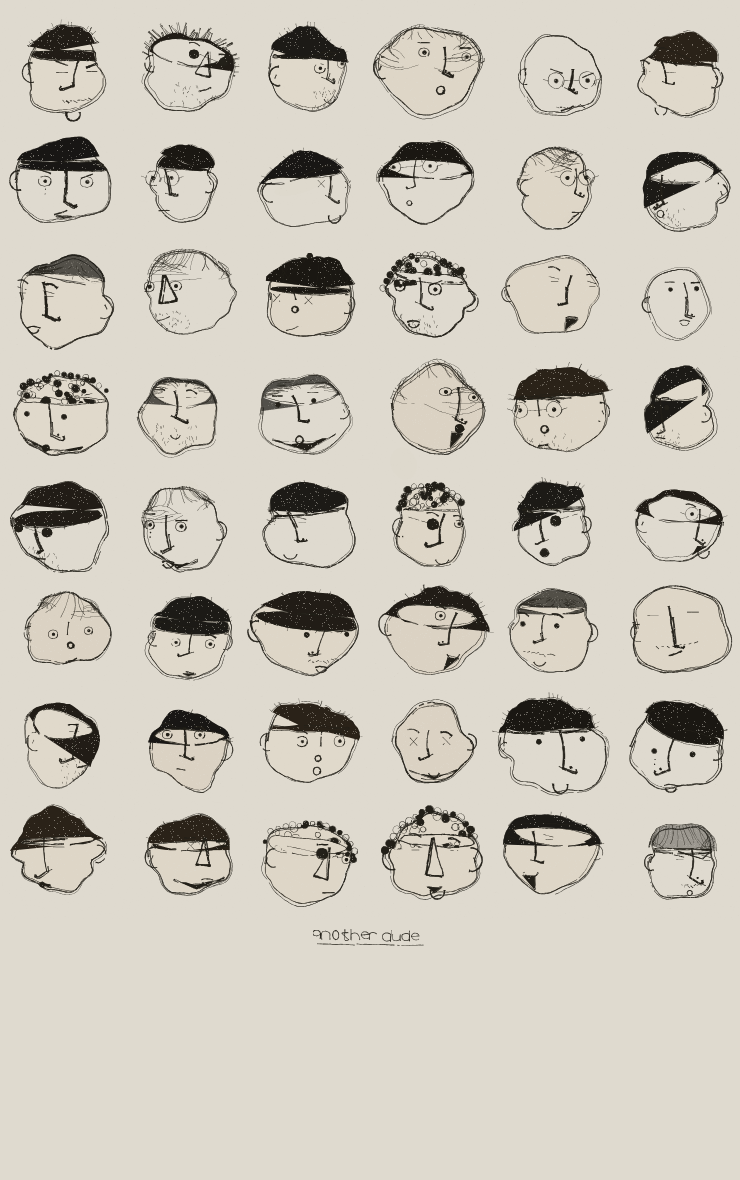
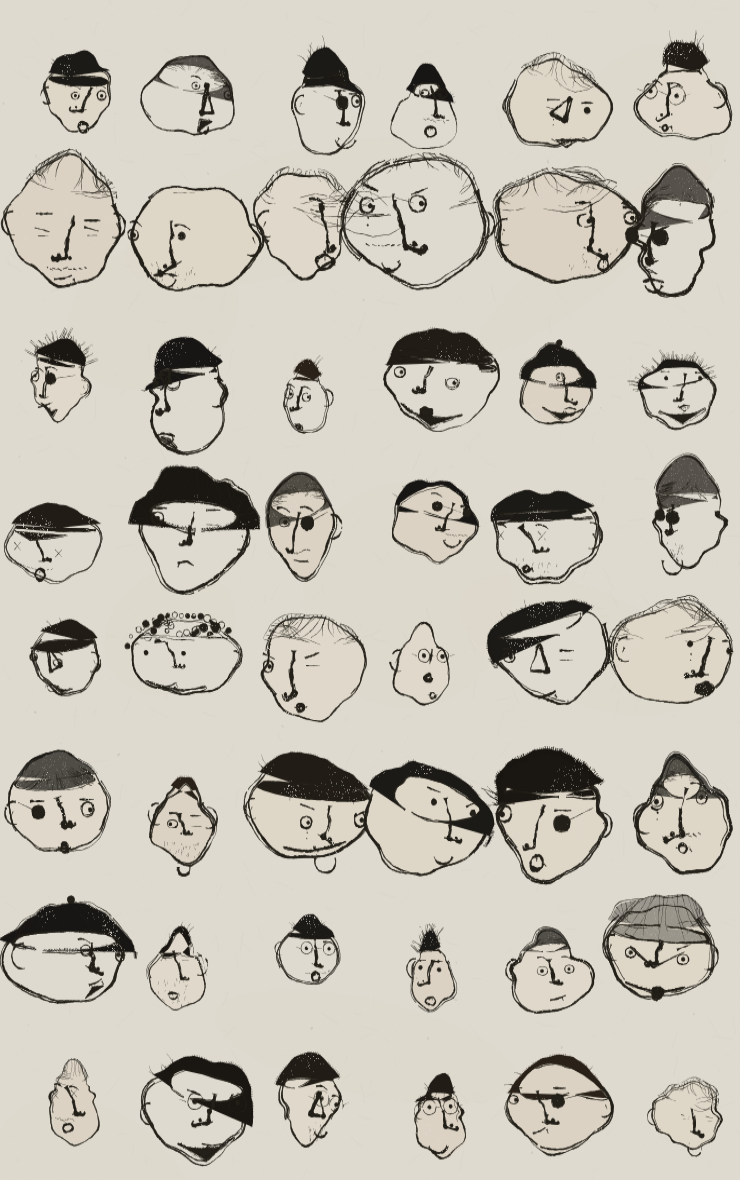
Gauntlet: pressure inside the stroke, heads as two strokes, handwriting
Critics picked ours out three rounds running on the same tells. This
answers them.

- Pressure was scaled to the page, not the stroke: the noise wavelength
  was longer than most lines, so every line came out one width from
  entry to exit. It now runs 1-5 swells per stroke regardless of length,
  so a contour visibly thins through a straight and bears down on a turn.
- A head is no longer one closed loop. A cranium is drawn over and a jaw
  under, they overshoot and cross where they meet, the jaw carries more
  weight, and one cheek gets restated. A single perturbed circle is what
  made faces read as stickers.
- Skulls pick from six archetypes so silhouette differs, plus an optional
  brow ridge in the outline.
- Mouths are structural — open jaws with teeth, overhanging lips,
  puckers — and every face gets one.
- Handwriting: letterforms are sheared, unevenly squashed and
  control-point jittered per glyph, so repeated letters never superimpose;
  the baseline drifts and does not come back; strokes overshoot their
  joins; case is mixed; word spacing opens up.
- Cloth has folds, hem shadow and pocket marks instead of a paint-bucket
  fill; arms taper; hands exist.
- Paper has fibre and blooms instead of a flat field with speckle on it.
- Plate mode drifts and crowds like a filled page rather than a grid of
  centred cells.

Claude-Session: https://claude.ai/code/session_01RJWY9ufwnD6fjwW6ve4one

diff --git a/dude.js b/dude.js
@@ -152,10 +152,15 @@
       // A real nib runs thin through a straight, presses hard through a turn
       // and lifts off at the exit. One width from start to stop is the single
       // loudest tell that a contour was plotted rather than drawn.
-      const slow = fbm2(u * 0.0085, sd * 0.011, sd + 5) - 0.5;
-      const slow2 = fbm2(u * 0.031, sd * 0.017, sd + 211) - 0.5;
+      // Scale the pressure wave to the STROKE, not to the page. Noise with a
+      // wavelength longer than the line gives every line one constant width,
+      // which is the thing every critic spots first.
+      const t01 = i / (n - 1);
+      const cyc = 1.3 + ((sd >>> 3) % 9) * 0.42;
+      const slow = fbm2(t01 * cyc * 2 + 7, sd * 0.011, sd + 5) - 0.5;
+      const slow2 = fbm2(t01 * cyc * 5.5 + 3, sd * 0.017, sd + 211) - 0.5;
       const fast = fbm2(u * 0.185, sd * 0.005, sd + 61) - 0.5;
-      let press = 1 + slow * 1.35 + slow2 * 0.6 + fast * 0.28;
+      let press = 1 + slow * 1.7 + slow2 * 0.62 + fast * 0.26;
       if (i < 3) press *= 1.3 - i * 0.09; // the nib sits down where it lands
       const tail = n - 1 - i;
       if (tail < 6) press *= 0.52 + (tail / 6) * 0.48; // and lifts on the way out
@@ -171,7 +176,7 @@
       while (ang < -Math.PI) ang += Math.PI * 2;
       const turn = Math.abs(ang);
       if (turn > 0.35) press *= 1 + Math.min(0.7, (turn - 0.35) * 1.1); // ink pools in the corner
-      W[i] = Math.max(0.32, w * Math.min(2.4, Math.max(0.24, press)));
+      W[i] = Math.max(0.3, w * Math.min(2.6, Math.max(0.2, press)));
       // the nib lifts rarely and briefly; a dashed line is a broken pen,
       // not a dry one. Thin strokes skip more than fat ones.
       const dry = fbm2(u * 0.19 + 11, sd * 0.02, sd + 137);
@@ -438,25 +443,43 @@
     c.restore();
     c.fillStyle = PAPER;
     c.fillRect(0, 0, w, h);
-    for (let i = 0; i < 7; i++) {
-      c.fillStyle = rng.chance(0.5) ? "rgba(92,70,42,0.008)" : "rgba(255,250,238,0.012)";
+    // Cartridge paper is not a flat tone. Big soft blooms, then fibre lying
+    // in the sheet, then tooth. A flat field with speckle on it is the
+    // easiest thing in the whole drawing to spot as printed.
+    for (let i = 0; i < 16; i++) {
+      c.fillStyle = rng.chance(0.5) ? "rgba(92,78,52,0.006)" : "rgba(255,252,244,0.01)";
       c.beginPath();
-      c.ellipse(rng.f(0, w), rng.f(0, h), rng.f(8, 28), rng.f(5, 16), rng.f(0, 6), 0, Math.PI * 2);
+      c.ellipse(rng.f(-40, w + 40), rng.f(-40, h + 40), rng.f(40, 190), rng.f(28, 130), rng.f(0, 6), 0, Math.PI * 2);
       c.fill();
     }
-    for (let i = 0; i < 3400; i++) {
-      c.fillStyle = rng.chance(0.62) ? "rgba(48,36,22,0.035)" : "rgba(255,255,255,0.03)";
-      c.fillRect(rng.f(0, w), rng.f(0, h), rng.f(0.3, 1.1), rng.f(0.25, 0.7));
-    }
-    for (let i = 0; i < 90; i++) {
-      c.strokeStyle = "rgba(70,52,32,0.022)";
-      c.lineWidth = rng.f(0.25, 0.5);
-      c.beginPath();
+    for (let i = 0; i < 900; i++) {
+      const a = rng.f(0, Math.PI * 2);
+      const len = rng.f(3, 22);
+      const dark = rng.chance(0.55);
+      c.strokeStyle = dark ? "rgba(74,60,40,0.03)" : "rgba(255,253,246,0.05)";
+      c.lineWidth = rng.f(0.4, 1.0);
       const x = rng.f(0, w);
       const y = rng.f(0, h);
+      c.beginPath();
       c.moveTo(x, y);
-      c.lineTo(x + rng.f(-14, 14), y + rng.f(-1.6, 1.6));
+      c.quadraticCurveTo(
+        x + Math.cos(a) * len * 0.5 + rng.f(-2, 2),
+        y + Math.sin(a) * len * 0.5 + rng.f(-2, 2),
+        x + Math.cos(a) * len,
+        y + Math.sin(a) * len
+      );
       c.stroke();
+    }
+    for (let i = 0; i < 4200; i++) {
+      c.fillStyle = rng.chance(0.6) ? "rgba(48,36,22,0.032)" : "rgba(255,255,255,0.034)";
+      c.fillRect(rng.f(0, w), rng.f(0, h), rng.f(0.3, 1.2), rng.f(0.25, 0.8));
+    }
+    for (let i = 0; i < 40; i++) {
+      // the odd fleck of pulp
+      c.fillStyle = "rgba(58,44,28,0.1)";
+      c.beginPath();
+      c.ellipse(rng.f(0, w), rng.f(0, h), rng.f(0.5, 1.7), rng.f(0.4, 1.1), rng.f(0, 6), 0, Math.PI * 2);
+      c.fill();
     }
   }
 
@@ -745,7 +768,27 @@
     const hull = skull.silhouette(rng);
     inkFill(c, rng, hull, PAPER, 1, 0.6);
     if (skinWash) inkFill(c, rng, hull, skinWash, 0.16, 0.6);
-    inkPoly(c, rng, hull, { closed: true, doubled: true, w: skull.s * 0.03 * (skull.pen || 1), dry: 0.4 });
+    // A head is not one closed loop. It is a cranium drawn over, then a jaw
+    // drawn under, and they overshoot and cross where they meet — which is
+    // also where the pen bears down. One continuous perturbed circle is what
+    // makes a face read as a sticker instead of a skull.
+    const n = hull.length;
+    const arc = (a, b) => {
+      const out = [];
+      for (let i = a; i <= b; i++) out.push(hull[((i % n) + n) % n]);
+      return out;
+    };
+    const ov = Math.round(n * rng.f(0.05, 0.11));
+    const w0 = skull.s * 0.03 * (skull.pen || 1);
+    const cranium = arc(-ov, Math.round(n * 0.5) + ov);
+    const jaw = arc(Math.round(n * 0.5) - ov, n + ov);
+    inkPoly(c, rng, cranium, { w: w0 * rng.f(0.85, 1.02), dry: 0.45, doubled: rng.chance(0.55) });
+    inkPoly(c, rng, jaw, { w: w0 * rng.f(1.1, 1.4), dry: 0.35, doubled: rng.chance(0.7) });
+    if (rng.chance(0.35)) {
+      // a cheek restated on one side only
+      const a0 = Math.round(n * rng.f(0.02, 0.12));
+      inkPoly(c, rng, arc(a0, a0 + Math.round(n * rng.f(0.12, 0.26))), { w: w0 * 0.75, dry: 1.2 });
+    }
 
     const earL = pin(skull, { x: -0.92, y: 0.02, z: 0.05 });
     const earR = pin(skull, { x: 0.92, y: 0.02, z: 0.05 });
@@ -1582,7 +1625,8 @@
     const hipY = neckY + s * rng.f(1.95, 2.3);
     const kneeY = hipY + s * rng.f(0.85, 1.05);
     const footY = hipY + s * rng.f(1.7, 2.05);
-    const armR = (t) => s * (0.19 - 0.075 * t);
+    const aw0 = rng.f(0.17, 0.22);
+    const armR = (t) => s * (aw0 - (aw0 - rng.f(0.075, 0.1)) * Math.pow(t, 0.8));
     const legR = (t) => s * (rng.f(0.18, 0.23) - 0.065 * t);
     const pose = clothes.pose;
     const shrug = rng.f(-0.06, 0.1);
@@ -1682,8 +1726,28 @@
 
     // Core figure: neck, shoulders, sides, legs, feet. Arms go on top as
     // their own shapes, the way an arm crossing a body is actually drawn.
+    // Subdivide the straight runs so the pen has somewhere to wander. A
+    // shoulder that travels 100px without a bulge or a dent is a ruled line,
+    // and the head above it never is.
+    const span = (a, b, n) => {
+      const out = [];
+      for (let i = 1; i < n; i++) {
+        const t = i / n;
+        out.push({
+          x: a.x + (b.x - a.x) * t + rng.f(-1, 1) * s * 0.035,
+          y: a.y + (b.y - a.y) * t + rng.f(-1, 1) * s * 0.03,
+        });
+      }
+      return out;
+    };
     const core = []
-      .concat([neckL, shoulderL, waistL, hipL])
+      .concat([neckL])
+      .concat(span(neckL, shoulderL, 3))
+      .concat([shoulderL])
+      .concat(span(shoulderL, waistL, 4))
+      .concat([waistL])
+      .concat(span(waistL, hipL, 3))
+      .concat([hipL])
       .concat(edgeOf(LlS, legR, -1).slice(1))
       .concat(Lfoot)
       .concat(edgeOf(LlS, legR, 1).reverse().slice(1, -1))
@@ -1691,7 +1755,13 @@
       .concat(edgeOf(RlS, legR, -1).slice(1))
       .concat(Rfoot.slice().reverse())
       .concat(edgeOf(RlS, legR, 1).reverse().slice(1, -1))
-      .concat([hipR, waistR, shoulderR, neckR]);
+      .concat([hipR])
+      .concat(span(hipR, waistR, 3))
+      .concat([waistR])
+      .concat(span(waistR, shoulderR, 4))
+      .concat([shoulderR])
+      .concat(span(shoulderR, neckR, 3))
+      .concat([neckR]);
 
     const armShape = (S) => {
       const a = edgeOf(S, armR, -1);
@@ -1719,6 +1789,15 @@
     if (pose !== "folded" && pose !== "pockets") {
       hand(c, rng, LaS, armR(1), -1, s);
       hand(c, rng, RaS, armR(1), 1, s);
+    } else if (pose === "pockets") {
+      for (let side = -1; side <= 1; side += 2) {
+        const t = side < 0 ? LaS[LaS.length - 1] : RaS[RaS.length - 1];
+        inkPoly(c, rng, [
+          { x: t.x - side * s * 0.22, y: t.y - s * rng.f(0.16, 0.26) },
+          { x: t.x - side * s * 0.06, y: t.y - s * 0.04 },
+          { x: t.x + side * s * rng.f(0.08, 0.16), y: t.y + s * rng.f(0.0, 0.06) },
+        ], { w: s * 0.017, dry: 0.7 });
+      }
     }
     const outline = core;
 
@@ -1777,6 +1856,44 @@
       }
       cuff(LaS, -1);
       cuff(RaS, 1);
+    }
+
+    // Cloth has folds. A flat fill inside a clean outline is the difference
+    // between a garment and a silhouette.
+    const fold = (x0, y0, x1, y1, wk) =>
+      inkPoly(c, rng, [
+        { x: x0, y: y0 },
+        { x: (x0 + x1) / 2 + rng.f(-4, 4), y: (y0 + y1) / 2 + rng.f(-3, 3) },
+        { x: x1, y: y1 },
+      ], { w: s * (wk ?? 0.014), dry: 0.9, wobble: s * 0.02 });
+
+    for (let side = -1; side <= 1; side += 2) {
+      const sx0 = side < 0 ? shoulderL : shoulderR;
+      const n = rng.i(1, 3);
+      for (let i = 0; i < n; i++) {
+        fold(
+          sx0.x - side * s * rng.f(0.06, 0.2),
+          sx0.y + s * rng.f(0.12, 0.3),
+          sx0.x - side * s * rng.f(0.3, 0.55),
+          sx0.y + s * rng.f(0.45, 0.8)
+        );
+      }
+    }
+    if (rng.chance(0.82)) {
+      const n = rng.i(2, 5);
+      for (let i = 0; i < n; i++) {
+        const x0 = waistL.x + ((waistR.x - waistL.x) * (i + 0.6)) / n;
+        fold(x0, hemY - s * rng.f(0.2, 0.42), x0 + rng.f(-5, 5), hemY - s * rng.f(0.01, 0.08), 0.011);
+      }
+    }
+    if (rng.chance(0.6)) {
+      // shadow under the hem
+      const n = rng.i(4, 9);
+      for (let i = 0; i < n; i++) {
+        const t = i / n;
+        const x0 = waistL.x + (waistR.x - waistL.x) * t;
+        inkLine(c, rng, x0, hemY - s * rng.f(0.02, 0.1), x0 + s * rng.f(0.04, 0.1), hemY + rng.f(-2, 2), s * 0.01);
+      }
     }
 
     if (clothes.pattern) {
@@ -1912,21 +2029,29 @@
   function drawGlyph(c, rng, ch, x, y, size, wk) {
     const d = GLYPHS[ch];
     if (!d) return size * 0.55;
-    const sx = size * rng.f(0.88, 1.12);
-    const sy = size * rng.f(0.9, 1.12);
-    const rot = rng.f(-0.075, 0.075);
-    const w = size * (ch === " " ? 0.36 : ch === "i" || ch === "l" || ch === "I" || ch === "'" ? 0.42 : rng.f(0.74, 0.88));
+    const sx = size * rng.f(0.86, 1.14);
+    const sy = size * rng.f(0.88, 1.14);
+    const rot = rng.f(-0.09, 0.09);
+    // A hand cannot repeat a letterform. Shear it, squash it unevenly, and
+    // push every control point — otherwise the two O's in a word superimpose
+    // and the whole thing reads as a distressed typeface.
+    const shear = rng.f(-0.22, 0.22);
+    const bulge = rng.f(-0.16, 0.16);
+    const gseed = rng.i(1, 99999);
+    const w = size * (ch === " " ? 0.55 : ch === "i" || ch === "l" || ch === "I" || ch === "'" ? 0.42 : rng.f(0.74, 0.88));
     d.forEach((stroke) => {
       const cmds = parsePath(stroke);
       const pts = [];
       let px = 0;
       let py = 0;
       const xf = (u, v) => {
-        const rx = (u - 0.5) * sx;
+        const jx = (fbm2(u * 3.1 + gseed * 0.01, v * 3.1, gseed) - 0.5) * size * 0.09;
+        const jy = (fbm2(v * 3.7 + gseed * 0.01, u * 3.7, gseed + 41) - 0.5) * size * 0.09;
+        const rx = (u - 0.5 + bulge * v * (1 - v) * 2) * sx - v * shear * sx;
         const ry = v * sy;
         return {
-          x: x + rx * Math.cos(rot) - ry * Math.sin(rot),
-          y: y + rx * Math.sin(rot) + ry * Math.cos(rot) + rng.f(-0.2, 0.2),
+          x: x + rx * Math.cos(rot) - ry * Math.sin(rot) + jx,
+          y: y + rx * Math.sin(rot) + ry * Math.cos(rot) + jy,
         };
       };
       cmds.forEach((cmd) => {
@@ -1951,13 +2076,28 @@
           py = dlt.y;
         }
       });
-      inkPoly(c, rng, pts, { w: size * (wk ?? rng.f(0.085, 0.155)), passes: 1, dry: 0.55, wobble: size * rng.f(0.035, 0.075) });
+      // the pen runs past the join instead of stopping on it
+      if (pts.length > 1 && rng.chance(0.55)) {
+        const a = pts[pts.length - 2];
+        const b = pts[pts.length - 1];
+        const k = rng.f(0.06, 0.24);
+        pts.push({ x: b.x + (b.x - a.x) * k * 3, y: b.y + (b.y - a.y) * k * 3 });
+      }
+      inkPoly(c, rng, pts, { w: size * (wk ?? rng.f(0.08, 0.17)), passes: 1, dry: 0.55, wobble: size * rng.f(0.035, 0.08) });
     });
     return w;
   }
 
   function drawName(c, rng, name, x, y, size, opt = {}) {
-    const text = opt.caps === false ? String(name) : String(name).toUpperCase();
+    const raw = String(name);
+    const text =
+      opt.caps === false
+        ? raw
+        : rng.chance(0.45)
+        ? raw.toUpperCase()
+        : rng.chance(0.5)
+        ? raw
+        : raw.replace(/\b(\w)(\w*)/g, (m, a, b) => a.toUpperCase() + (rng.chance(0.3) ? b.toUpperCase() : b));
     c.save();
     c.translate(x, y);
     c.rotate(rng.f(-0.045, 0.035));
@@ -1978,7 +2118,7 @@
       const dy = drift + px * slope + late;
       const adv = drawGlyph(c, rng, ch, px, dy, cs, opt.w);
       // hand lettering closes up after a round letter
-      const tuck = round.includes(prev) || round.includes(ch) ? -size * rng.f(0.01, 0.045) : 0;
+      const tuck = ch === " " || prev === " " ? size * rng.f(0.02, 0.09) : round.includes(prev) || round.includes(ch) ? -size * rng.f(0.01, 0.045) : 0;
       px += adv + size * rng.f(0.03, 0.11) + tuck;
       prev = ch;
     }
@@ -2163,7 +2303,7 @@
       nameX = cx + s * rng.f(1.0, 1.35);
       nameY = cy + s * rng.f(0.1, 0.6);
     }
-    nameX = Math.max(18, Math.min(w - size * String(dude.name).length * 0.62 - 12, nameX));
+    nameX = Math.max(16, Math.min(w - size * String(dude.name).length * 0.95 - 14, nameX));
     nameY = Math.max(size * 1.2, Math.min(h - size * 1.6, nameY));
     drawName(c, rng, dude.name, nameX, nameY, size);
     grainPass(c);
@@ -2179,12 +2319,16 @@
     const cw = w / cols;
     const ch = (h - 24) / rows;
     for (let r = 0; r < rows; r++) {
+      // rows drift and crowd the way a hand fills a page
+      const rowDx = rng0.f(-10, 10);
+      const rowDy = rng0.f(-7, 7);
+      const rowS = rng0.f(0.9, 1.1);
       for (let col = 0; col < cols; col++) {
         const rng = new Rng((seed0 + (r * cols + col) * 7919) >>> 0);
         const d = makeDude(rng);
-        const s = Math.min(cw, ch) * rng.f(0.3, 0.38);
-        const cx = cw * (col + 0.5) + rng.f(-6, 6);
-        const cy = 18 + ch * (r + 0.5) + rng.f(-6, 6);
+        const s = Math.min(cw, ch) * rng.f(0.26, 0.42) * rowS;
+        const cx = cw * (col + 0.5) + rowDx + rng.f(-13, 13);
+        const cy = 18 + ch * (r + 0.5) + rowDy + rng.f(-11, 11);
         const skull = new Skull(cx, cy, s, d.yaw, d.pitch, d.roll, d.ratio, d.depth, {
           jaw: d.jaw, chin: d.chin, crown: d.crown, cheek: d.cheek,
           lobeA: d.lobeA, lobeB: d.lobeB, lobeAmp: d.lobeAmp, lobePh: d.lobePh,
@@ -2226,6 +2370,8 @@
     drawName(bc, rng, "another dude", 8, 7, 25, { caps: false, rule: true, w: 0.05 });
   }
 
+  const PLATE = !!new URLSearchParams(location.search).get("plate");
+  if (PLATE) document.body.classList.add("plate");
   let count = 0;
   let seed = parseSeed();
 
@@ -2239,7 +2385,7 @@
     canvas.width = Math.round(cssW * dpr);
     canvas.height = Math.round(cssH * dpr);
     ctx.setTransform(dpr, 0, 0, dpr, 0, 0);
-    if (new URLSearchParams(location.search).get("plate")) drawPlate(ctx, cssW, cssH, seed);
+    if (PLATE) drawPlate(ctx, cssW, cssH, seed);
     else drawDude(ctx, rng, dude, cssW, cssH);
     count += 1;
     drawButton(seed ^ 0x9e3779b9);

diff --git a/styles.css b/styles.css
@@ -72,3 +72,6 @@ body {
 @media (max-width: 640px) {
   #page { height: calc(100dvh - 60px); }
 }
+
+body.plate .dock { display: none; }
+body.plate #page { height: 100dvh; max-height: none; }
